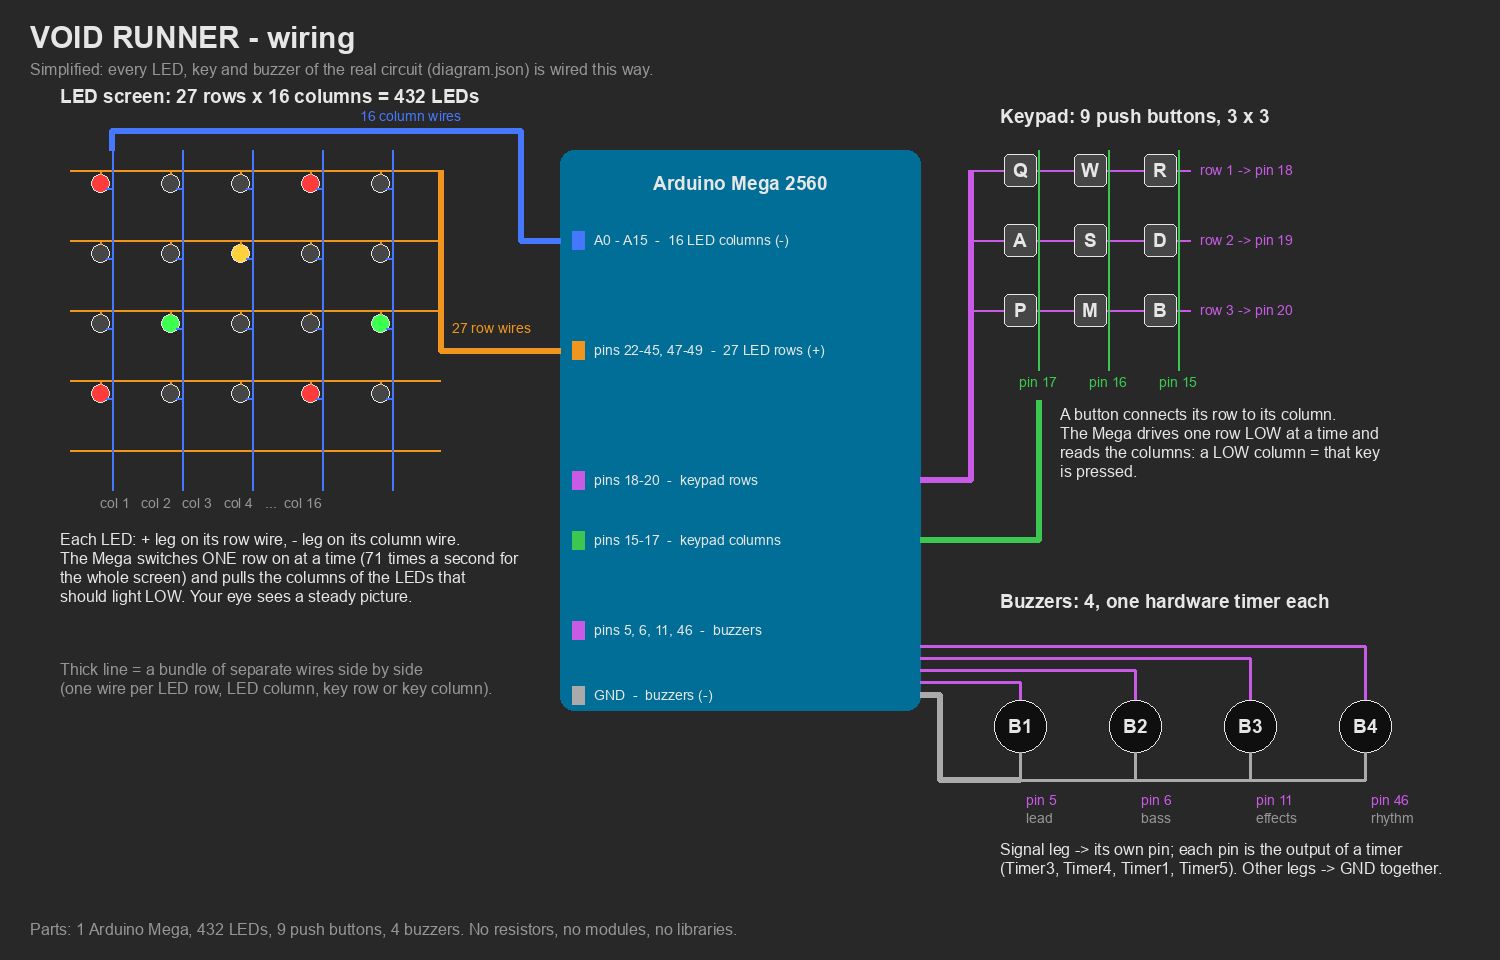
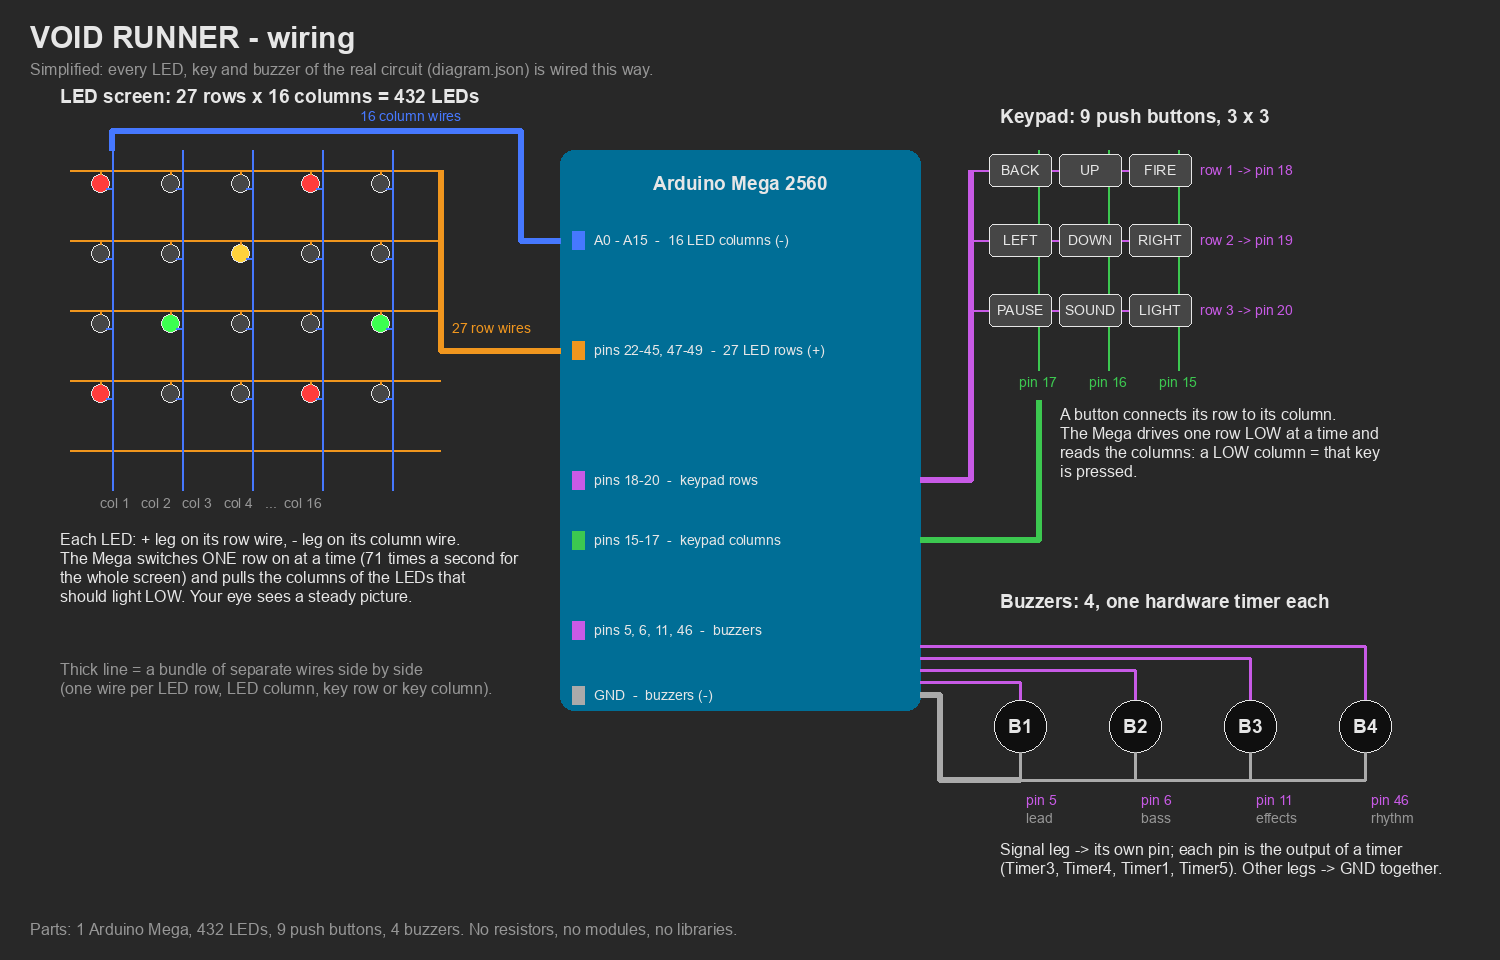
Keypad buttons show Atari-style names
The buttons now read BACK, UP, FIRE / LEFT, DOWN, RIGHT / PAUSE, SOUND,
LIGHT instead of key letters. Only the shown text changed: every button
still answers to the same PC keyboard key (Q W R / A S D / P M B), and
pins.h and the game code are unchanged. The shown name is a new field in
the BUTTONS table of gen_circuit.py. Circuit and wiring diagram
regenerated (wiring errors 0, crossings 0); SPEC, README and the
documentation text updated.

Changed region(s): [[0.644, 0.1562, 0.7973, 0.3438]]

diff --git a/tools/gen_circuit.py b/tools/gen_circuit.py
@@ -54,12 +54,14 @@ LED_GAMMA = '30'
 # 27 ms (about two full screen scans), which keeps moving things sharp.
 LED_FPS = '300'
 
-# Keypad, row by row: (label, PC keyboard key, button colour).
-# Q back, R fire / OK; W A S D move (W above S, like a keyboard); P pause, M sound, B light.
+# Keypad, row by row: (key letter, PC keyboard key, button colour, name shown on the button).
+# The letter is what the code and the part ids use (never change it without the code); the
+# shown name is only the text under the button, in the style of an Atari joystick + console:
+# W A S D move (W above S, like a keyboard), R fire / OK, Q back, P pause, M sound, B light.
 BUTTONS = [
-    [('Q', 'q', 'white'), ('W', 'w', 'blue'), ('R', 'r', 'red')],
-    [('A', 'a', 'blue'), ('S', 's', 'blue'), ('D', 'd', 'blue')],
-    [('P', 'p', 'yellow'), ('M', 'm', 'yellow'), ('B', 'b', 'yellow')],
+    [('Q', 'q', 'white', 'BACK'), ('W', 'w', 'blue', 'UP'), ('R', 'r', 'red', 'FIRE')],
+    [('A', 'a', 'blue', 'LEFT'), ('S', 's', 'blue', 'DOWN'), ('D', 'd', 'blue', 'RIGHT')],
+    [('P', 'p', 'yellow', 'PAUSE'), ('M', 'm', 'yellow', 'SOUND'), ('B', 'b', 'yellow', 'LIGHT')],
 ]
 KR, KC = len(BUTTONS), len(BUTTONS[0])               # keypad rows and columns
 
@@ -239,9 +241,9 @@ BY = KY + 10
 
 for r in range(KR):
     for c in range(KC):
-        label, key, colour = BUTTONS[r][c]
-        part('wokwi-pushbutton', 'btn_%s' % label, KX + KPX * c, KY + KPY * r,
-             {'color': colour, 'label': label, 'key': key})
+        letter, key, colour, name = BUTTONS[r][c]
+        part('wokwi-pushbutton', 'btn_%s' % letter, KX + KPX * c, KY + KPY * r,
+             {'color': colour, 'label': name, 'key': key})
 for r in range(KR):                   # contact 1 of each button = its row line
     for c in range(KC - 1):
         wire('btn_%s:1.r' % BUTTONS[r][c][0], 'btn_%s:1.l' % BUTTONS[r][c + 1][0],

diff --git a/tools/draw_wiring.py b/tools/draw_wiring.py
@@ -108,7 +108,7 @@ text((LX, LY + 5 * P + 10),
 # ---------------------------------------------------------------- keypad
 KX, KY, KP = 1000, 150, 70
 text((KX, KY - 45), 'Keypad: %d push buttons, %d x %d' % (gc.KR * gc.KC, gc.KR, gc.KC), F_HEAD)
-labels = [b[0] for row in gc.BUTTONS for b in row]
+labels = [b[3] for row in gc.BUTTONS for b in row]      # the names shown on the buttons
 for r in range(gc.KR):
     y = KY + 20 + r * KP
     line([(KX - 30, y), (KX + gc.KC * KP - 20, y)], VIOLET, 2)
@@ -120,8 +120,8 @@ for c in range(gc.KC):
 for r in range(gc.KR):
     for c in range(gc.KC):
         x, y = KX + 20 + c * KP, KY + 20 + r * KP
-        d.rounded_rectangle((x - 16, y - 16, x + 16, y + 16), 5, fill=(70, 70, 70), outline=FG)
-        text((x, y), labels[r * gc.KC + c], F_HEAD, anchor='mm')
+        d.rounded_rectangle((x - 31, y - 16, x + 31, y + 16), 5, fill=(70, 70, 70), outline=FG)
+        text((x, y), labels[r * gc.KC + c], F_SMALL, anchor='mm')
 line([(KX - 30, KY + 20), (KX - 30, MY + 330), (MX + MW, MY + 330)], VIOLET, 6)
 line([(KX + 38, KY + gc.KR * KP + 40), (KX + 38, MY + 390), (MX + MW, MY + 390)], GREEN, 6)
 text((KX + 60, KY + gc.KR * KP + 45),

diff --git a/tools/make_doc.py b/tools/make_doc.py
@@ -532,7 +532,7 @@ def performance(doc, pics):
     R('The 9 push buttons form a 3 × 3 matrix, one button for each key the game uses. The code drives one row LOW at a time and reads the '
       'three columns with the internal pull-ups, so a pressed key reads LOW. The rows that are not '
       'being read are switched to inputs, so two pressed keys can never short a HIGH and a LOW '
-      'output together. Every key is debounced. The buttons are labelled like keyboard keys and also '
+      'output together. Every key is debounced. The buttons are labelled in the style of an Atari joystick (UP, DOWN, FIRE ...) and also '
       'react to the PC keyboard in Wokwi.')
     doc.picture(pics['cu_keypad'], 8, 'The keypad in Wokwi.')
     doc.table(['Key', 'Action'], [

diff --git a/docs/SPEC.md b/docs/SPEC.md
@@ -55,17 +55,22 @@ each), with big digits and symbols where a word is not needed.
 
 ## 2. Controls
 
-The keypad buttons are labelled like keyboard keys and also react to the PC keyboard
+The keypad buttons are labelled in the style of an Atari joystick and console (UP, LEFT, DOWN,
+RIGHT, FIRE, BACK, PAUSE, SOUND, LIGHT) and also react to the PC keyboard keys shown below
 (click an empty spot of the circuit first; use the English keyboard layout).
 
 ```
-┌───┬───┬───┐
-│ Q │ W │ R │    W A S D  move
-├───┼───┼───┤    R        fire (hold = auto-fire) · OK in menus
-│ A │ S │ D │    Q        back (in the game: pause)
-├───┼───┼───┤    P        pause / continue
-│ P │ M │ B │    M        sound on/off (any screen, saved)
-└───┴───┴───┘    B        brightness 100 / 50 / 20 % (any screen, saved)
+   button name     keyboard key
+┌───────┬───────┬───────┐
+│ BACK  │  UP   │ FIRE  │    Q  W  R      W A S D  move
+│  (Q)  │  (W)  │  (R)  │    R  fire (hold = auto-fire) · OK in menus
+├───────┼───────┼───────┤    Q  back (in the game: pause)
+│ LEFT  │ DOWN  │ RIGHT │    P  pause / continue
+│  (A)  │  (S)  │  (D)  │    M  sound on/off (any screen, saved)
+├───────┼───────┼───────┤    B  brightness 100 / 50 / 20 % (any screen, saved)
+│ PAUSE │ SOUND │ LIGHT │
+│  (P)  │  (M)  │  (B)  │
+└───────┴───────┴───────┘
 
 3 × 3 = exactly the 9 keys the game uses (it was 4 × 4 with 7 spare keys until 29 Oct).
 ```

diff --git a/CLAUDE.md b/CLAUDE.md
@@ -48,8 +48,10 @@ wokwi.com) – there is no real hardware. Design spec: `docs/SPEC.md`. User-faci
   on/off (use `frameNo & 8`), "dim on alternate frames" no longer looks dim, and PWM
   dimming (B key / LITE) is barely visible in Wokwi (90 → 85 %). The off-LED look (grey
   leads, white highlights, body colour at 65 % opacity) is fixed by Wokwi's LED drawing.
-- Keypad labels are keyboard letters (Q W R / A S D / P M B), `key` attr set; the size comes
-  from the `BUTTONS` table in gen_circuit.py (code, tests and wiring drawing follow it).
+- Keypad: keys Q W R / A S D / P M B (the `key` attr, what the code uses); the text shown on the
+  buttons is Atari style (BACK UP FIRE / LEFT DOWN RIGHT / PAUSE SOUND LIGHT, 30 Oct). Size, key
+  letters and shown names all come from the `BUTTONS` table in gen_circuit.py (code, tests and
+  wiring drawing follow it); change a shown name there, never the letter.
 
 ## Code (`void_runner/`, header-per-module, one translation unit)
 `config.h` settings, Screen enum, difficulty tables · `display.h` scan ISR, drawing, text,

diff --git a/README.md b/README.md
@@ -12,14 +12,14 @@ real screens: [docs/media/](docs/media/).
 2. `F1` → **Wokwi: Start Simulator** (the compiled program is in `build/`).
 3. **Click an empty spot of the circuit**, then use the keyboard (English layout):
 
-| Key | Does |
-|---|---|
-| W A S D | move (tap = 1 pixel, hold = glide) |
-| R | fire (tap = 1 bullet, hold = auto-fire) · OK in menus |
-| Q | back · pause in the game |
-| P | pause / continue |
-| M | sound on/off (any screen) |
-| B | brightness 100 / 50 / 20 % (any screen) |
+| Key | Button | Does |
+|---|---|---|
+| W A S D | UP LEFT DOWN RIGHT | move (tap = 1 pixel, hold = glide) |
+| R | FIRE | fire (tap = 1 bullet, hold = auto-fire) · OK in menus |
+| Q | BACK | back · pause in the game |
+| P | PAUSE | pause / continue |
+| M | SOUND | sound on/off (any screen) |
+| B | LIGHT | brightness 100 / 50 / 20 % (any screen) |
 
 After changing the code, run `build.cmd` (or tell Claude) and restart the simulator.
 
